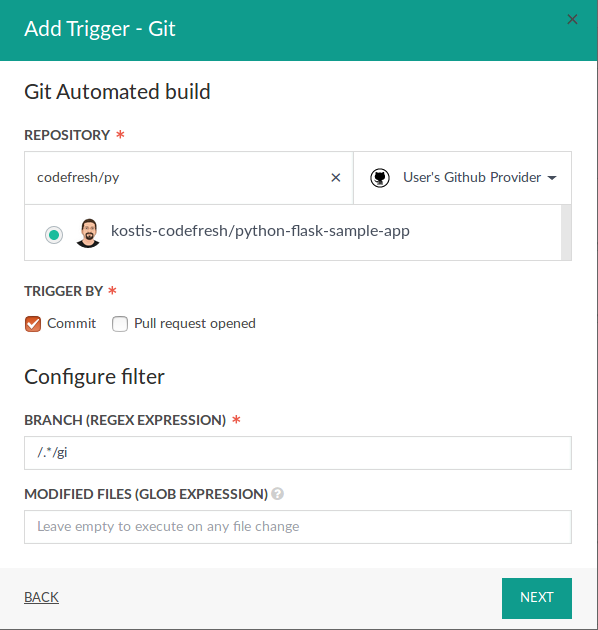
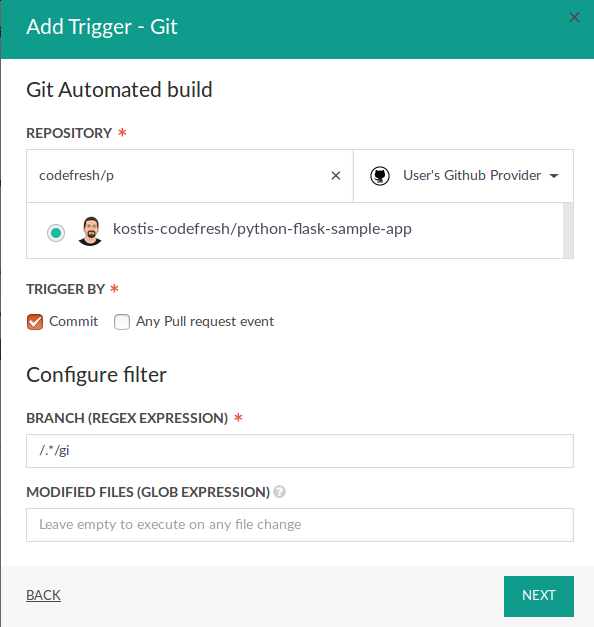
Added note about modified files and updated screenshot

diff --git a/_docs/configure-ci-cd-pipeline/triggers/git-triggers.md b/_docs/configure-ci-cd-pipeline/triggers/git-triggers.md
@@ -61,10 +61,14 @@ As a simple example you can have a *production* pipeline that runs only on *mast
 
 In a more advanced example you could add regular expressions in the branch field with names such as *feature-*, *hotfix-* etc and the PR checkbox active on different pipelines. This way you could trigger the pull requests only when they happen on specific branches. So a developer that creates a temporary feature with a name that doesn't match these naming patterns will not trigger those pipelines.
 
->If the PR checkbox is enabled Codefresh will also trigger a pipeline if a pull request is rejected/closed. While at first glance this seems counterintuitive, in practice it allows you to tear down test environments when the code from a Pull request is no longer needed. See below for a way to decide exactly what types of webhook events are used for triggers.
+>If the PR checkbox is enabled, Codefresh will also trigger a pipeline if a pull request is rejected/closed. While at first glance this seems counterintuitive, in practice it allows you to tear down test environments when the code from a Pull request is no longer needed. See below for a way to decide exactly what types of webhook events are used for triggers.
 
 The *modified files* field is a very powerful Codefresh feature that allows you to trigger a build only if the
-files affected by a commit are in a specific folder (or match a specific naming pattern)
+files affected by a commit are in a specific folder (or match a specific naming pattern). This means that
+you can have a big GIT repository with multiple projects and build only the parts that actually change.
+
+>Currently the field *modified files* is available only for Github repositories, since Github is the only GIT provider
+that sends this information in the webhook. We will support other GIT providers as soon as they add the respective feature.
 
 ## Using the Modified files field to constrain triggers to specific folder/files
 
